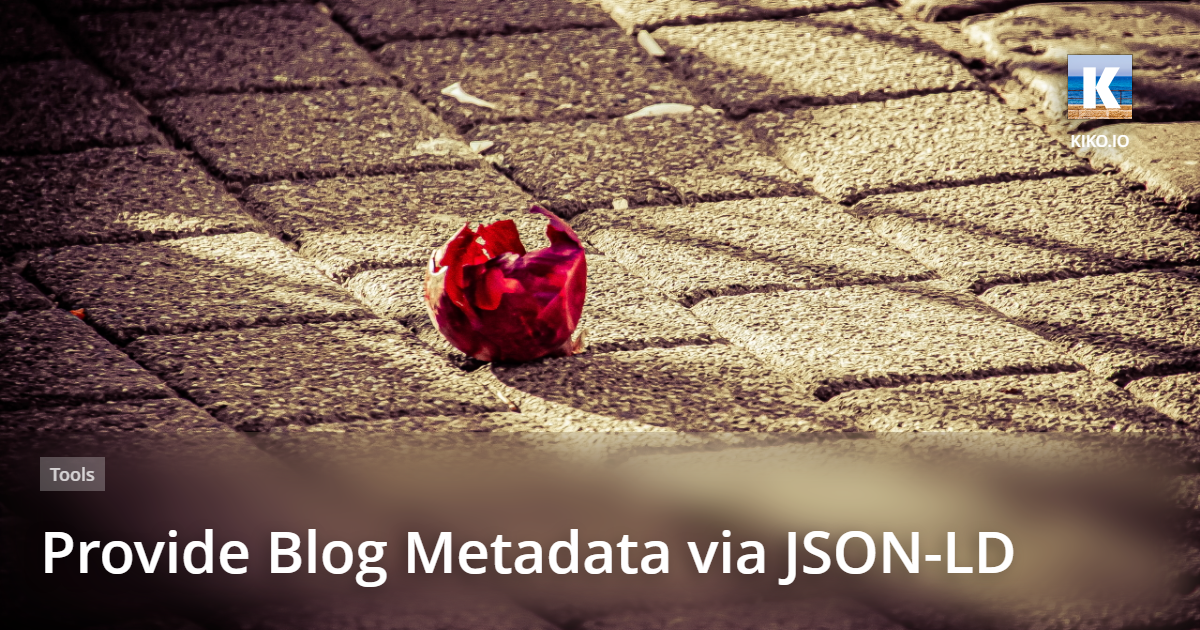
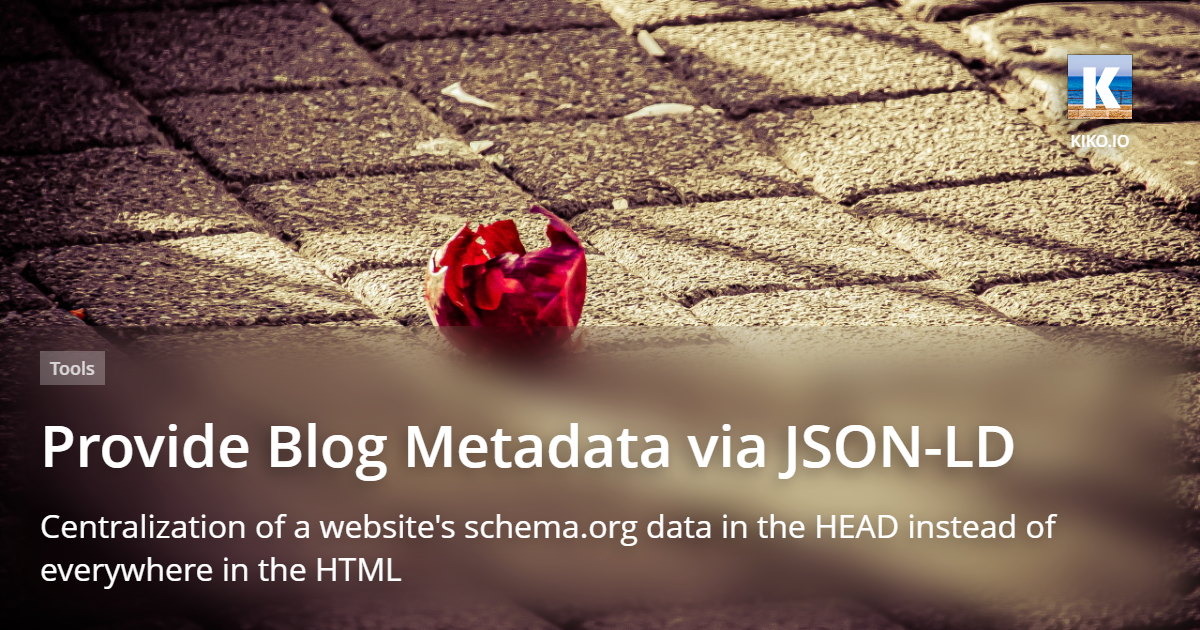
New Note

Changed region(s): [[0.0, 0.5127, 1.0, 0.7841], [0.0308, 0.8143, 0.8942, 0.9349]]

diff --git a/source/_posts/2023/Provide-Blog-Metadata-via-JSON-LD.md b/source/_posts/2023/Provide-Blog-Metadata-via-JSON-LD.md
@@ -1,8 +1,8 @@
 ---
 slug: Provide-Blog-Metadata-via-JSON-LD
 title: Provide Blog Metadata via JSON-LD
-subtitle:
-date: 2023-01-31 15:36:21
+subtitle: Centralization of a website's schema.org data in the HEAD instead of everywhere in the HTML
+date: 2023-02-05
 photograph:
   file: D70_9216.jpg
   name: Broken Onion
@@ -21,6 +21,7 @@ related:
 syndication:
   - host: Mastodon
     url: null
+hidden: true
 ---
 
 Chris Coyier's post "[Open Graph Blues](https://chriscoyier.net/2023/01/28/open-graph-blues/)" got me thinking that my blog's metadata, which are used by Google among others to index my pages, aren't really at the cutting edge anymore. I took the markup of the individual elements of the pages via [schema.org](https://schema.org) Microdata attributes from the standard Hexo template years ago and always adjusted it by value, but never questioned that there are more modern variants to provide the metadata.
@@ -49,24 +50,29 @@ Lots of textual overhead and the hardest part is maintaining it over the long te
 
 <!-- more -->
 
-## Structured Meta Data
+---
+
+## Structured Meta Data ...
 
 Google has published tons of information in its [Search Central](https://developers.google.com/search/docs/appearance/structured-data/intro-structured-data) on how to place metadata on your page to be found more easily in the index. You can also see that they are maintained by the update date of individual pages, for example "*Last updated 2023-01-26 UTC*". End of last week. That's up to date, fine.
 
 Of course, they also show how to use Microdata, but recommended is the use of [JSON-LD](https://json-ld.org/), a structured and centralized inclusion of the required information via a SCRIPT tag in the header of the page. Thereby information about the **website** in general, the **author**, the **organization** behind it and the actual **article** page can be combined separately in one piece of JSON code.
 
-{% alertbox warning %}
+{% alertbox exclamation %}
 Google's solution is based on schema.org, but they have picked only what is necessary for them, which means: they deal only with a subset of the schema.org types.
 {% endalertbox %}
 
-Since it is somewhat cumbersome to write correct JSON-LD from AHnd, there are of course online editors for it, e.g. within the [web code tools](https://webcode.tools/generators/structured-data) or [Merkle](https://technicalseo.com/tools/schema-markup-generator/).
+Since it is somewhat cumbersome to write correct JSON-LD by hand, there are of course online editors for it, e.g. within the [web code tools](https://webcode.tools/generators/structured-data) or [Merkle](https://technicalseo.com/tools/schema-markup-generator/).
 
-### Author
+---
+
+## ... Author
 
 First of all, this code is about me myself and I...
 
 ```json
 {
+  "@context": "http://schema.org/",
   "@type": "Person",
   "@id": "kiko.io/#person",
   "name": "Kristof Zerbe",
@@ -84,12 +90,15 @@ First of all, this code is about me myself and I...
 It is advisable to include so called **Node Identifiers** (``@id``) in order to reuse certain information later on as a reference and prevent repeating data.
 {% endalertbox %}
 
-### Organization
+---
+
+## ... Organization
 
 Most blogs are run by individuals and not necessarily by organizations, so you might think this area would not be interesting, but it is for a reason: only here you can deposit the link to a logo of your blog, which can then be displayed in the search.
 
 ```json
 {
+  "@context": "http://schema.org/",
   "@type": "Organization",
   "@id": "kiko.io/#organization",
   "name": "kiko.io",
@@ -98,12 +107,15 @@ Most blogs are run by individuals and not necessarily by organizations, so you m
 }
 ```
 
-### Website
+---
+
+## ... Website
 
 The JSON block related to this website itself looks like this:
 
 ```json
 {
+  "@context": "http://schema.org/",
   "@type": "WebSite",
   "@id": "kiko.io/#website",
   "url": "https://kiko.io",
@@ -115,20 +127,70 @@ The JSON block related to this website itself looks like this:
   },
   "potentialAction": {
     "@type": "SearchAction",
-    "target": "https://kiko.io/search/?q={search_term_string}",
-    "query-input": "required name=search_term_string"
-  }  
+    "target": {
+        "@type": "EntryPoint",
+        "urlTemplate": "https://kiko.io/search/?q={searchTerm}"
+    },
+    "query-input": "required name=searchTerm"
+  }
 }
 ```
 
-### Article
+Remarkable in this block is the ``potentialAction``, which specifies the possibility to let the search engine (Google, whatelse) integrate a Sitelinks Search Box, a search box inside the result list, as described [here](https://developers.google.com/search/docs/appearance/structured-data/sitelinks-searchbox). There is a shorthand format for this and some generators like Merkle are using it, but it is not recommended, because it's non-standard.
 
-The last three can be output on any page, as they describe the blog in general, but the following is article-specific and differs depending on the page, of course.
+---
+
+## ... Page Specific Data
+
+The last blocks can be output on any page, as they describe the blog and the person behind in general, but the following are page-specific and differs depending on the page, of course.
+
+### Images
+
+I use my own photographs on every page as header images and to provide some additional information on these, there is a JSON block for those images.
 
 ```json
 {
+  "@context": "http://schema.org/",
+  "@type": "ImageObject",
+  "@id": "kiko.io#photo",
+  "contentUrl": "https://kiko.io/photos/normal/D70_9216.jpg",
+  "license": "https://creativecommons.org/licenses/by-sa/4.0/",
+  "acquireLicensePage": "https://kiko.io/photos",
+  "creditText": "Kristof Zerbe",
+  "copyrightNotice": "Kristof Zerbe (CC BY-SA 4.0)",
+  "creator": {
+    "@id": "kiko.io/#person"
+  }
+}
+```
+
+For better recognition of my posts, I generate a special image for each blog post for the social media platforms. It is based on the  photo associated with the post and includes the it's title and subtitle in addition to the logo. How I generate these things can be read in my post {% post_link 2021/Generate-Social-Media-Images-Automatically %}. For this image there is a second JSON block, with which I can reference it in the further:
+
+```json
+{
+  "@context": "http://schema.org/",
+  "@type": "ImageObject",
+  "@id": "kiko.io#socialMediaImage",
+  "contentUrl": "https://kiko.io/images/social-media/Provide-Blog-Metadata-via-JSON-LD.png",
+  "license": "https://creativecommons.org/licenses/by-sa/4.0/",
+  "acquireLicensePage": "https://kiko.io/photos",
+  "creditText": "Kristof Zerbe",
+  "copyrightNotice": "Kristof Zerbe (CC BY-SA 4.0)",
+  "creator": {
+    "@id": "kiko.io/#person"
+  }
+}
+```
+
+![Social Media image of this post](/images/social-media/Provide-Blog-Metadata-via-JSON-LD.thumb.png)
+
+### Article
+
+```json
+{
+  "@context": "http://schema.org/",
   "@type": "Article",
-  "@id": "https://kiko.io/post/Provide-Blog-Metadata-via-JSON-LD/",
+  "@id": "kiko.io#socialMediaImage",
   "headline": "Provide Blog Metadata via JSON-LD",
   "image": [
     "https://kiko.io/images/social-media/Provide-Blog-Metadata-via-JSON-LD.png"
@@ -144,13 +206,19 @@ The last three can be output on any page, as they describe the blog in general, 
 }
 ```
 
+Here the identifiers defined in the other blocks are used for referencing the ``author`` and the ``publisher``, as in the block ``website``.
+
+---
+
 ## Gluing all together
 
 ...
 
+---
+
 ## Test your JSON-LD
 
-When you have everything together, it is advisable to test the resulting code. Schema.org offers such a tool at **[https://validator.schema.org/](https://validator.schema.org/)**.
+When you have everything together, it is advisable to test the resulting code. Schema.org offers such a tool at **[https://validator.schema.org/](https://validator.schema.org/)**. In addition, there is the [Google Rich Results Test](https://search.google.com/test/rich-results), which validates your code against the partially specific implementation for their own search engine.
 
 ![]()
 

diff --git a/source/_dynamic/photos.md b/source/_dynamic/photos.md
@@ -8,4 +8,9 @@ photograph:
   link: 'https://500px.com/photo/1023750696/Photographers-Mosaic-by-Kristof-Zerbe/'
 ---
 
-Mostly all posts or pages in this blog have a unique photo as hero image, to represent the page. I have shot and edited all these photographs over the last few years. Here's a list of all photos used or stored for future comings:
+<img src="/images/cc-free-culture.png" 
+     style="float:right; width:4rem; padding-left:2rem;">
+
+Mostly all posts or pages in this blog have a unique photo as hero image, to represent the page. I have shot and edited all these photographs over the last few years. All these images can be used under the Attribution-ShareAlike 4.0 International ([CC BY-SA 4.0](https://creativecommons.org/licenses/by-sa/4.0/)) license.
+
+Here's a list of all photos used or stored for future comings:

diff --git a/source/_notes/2023/02-05-typographic-hierarchy.md b/source/_notes/2023/02-05-typographic-hierarchy.md
@@ -1,0 +1,13 @@
+---
+title: "#Link | Typographic Hierarchy"
+date: 2023-02-05
+syndication: 
+- host: Mastodon
+  url: 
+---
+
+I'm not a designated design specialist, but UI's are and always have been important to me as a visual person. However, all web or other interfaces I designed as a developer were only created based on my feeling whether it looks good to me or not. Oliver Schöndorfer in his article about typographic hierarchies translates my simple feeling into psychological contexts (goal, levels, effect) without drifting into science. Very nice and helpful article @ [https://pimpmytype.com/hierarchy/](https://pimpmytype.com/hierarchy/)
+
+![Typographic Hierarchies Sample](images/02-05-typographic-hierarchy.png)
+
+#Typography #UIDesign
